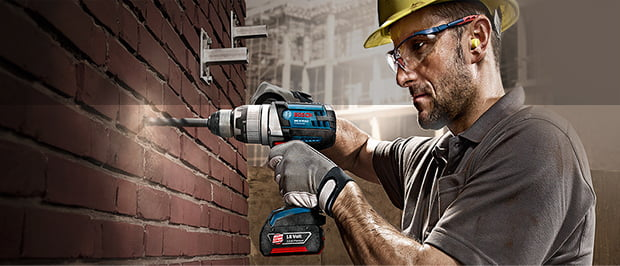
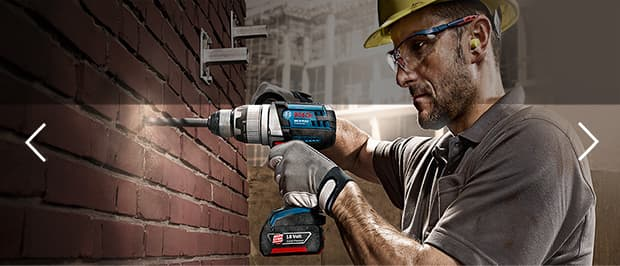
сделал 2 слайдера в Index

diff --git a/index.html b/index.html
@@ -113,28 +113,29 @@
             <img src="img/delivery_icon.svg" width="59" height="72" alt="тележка с товаром">
           </li>
           <!--Слайдер -->
-          <li class="products-services-item slider-item">
-            <div class="slider">
-              <div class="slider-hammer-drill">
-                <div class="slider-hammer-drill-text">
-                  <h3>Перфораторы</h3>
-                  <p>Настоящие мужские игрушки</p>
-                </div>
-                <a href="catalog.html">открыть каталог</a>
+          <li class="products-services-item slider-all">
+            <div class="slider slide-1">
+              <ul class="slider-list">
+                <li class="slider-item slide slide-current">
+                  <h3 class="slide-title">Перфораторы</h3>
+                  <p class="slide-slogan">Настоящие мужские игрушки</p>
+                  <a class="button button-slider" href="catalog.html">открыть каталог</a>
+                </li>
+                <li class="slider-item slide ">
+                  <h3 class="slide-title">Дрели</h3>
+                  <p class="slide-slogan">Соседям на радость</p>
+                  <a class="button button-slider" href="catalog.html">открыть каталог</a>
+                </li>
+              </ul>
+              <div class="slider-controls">
+                <button type="button" class="button-slider-controls button-next-slider"
+                  aria-label="Первый слайд"></button>
+                <button type="button" class="button-slider-controls button-back-slider"
+                  aria-label="Второй слайд"></button>
               </div>
-              <div class="slider-drill">
-                <div class="drill-text">
-                  <h3>Дрели</h3>
-                  <p>Соседям на радость</p>
-                </div>
-                <a class="button" href="catalog.html">открыть каталог</a>
-              </div>
-              <button type="button" class="button-next-slider">вперед</button>
-              <button type="button" class="button-back-slider">назад</button>
             </div>
           </li>
         </ul>
-
       </section>
 
       <section class="popular-tools">
@@ -253,11 +254,11 @@
           Мы стараемся изо всех сил, чтобы сделать ваши покупки приятными.</p>
         <div class="services-container">
           <ul class="services-list">
-            <li class="services-item services-item-delivery"><button type="button">Доставка</button></li>
+            <li class="services-item services-item-delivery services-item-current"><button type="button">Доставка</button></li>
             <li class="services-item services-item-guarantee"><button type="button">Гарантия</button></li>
             <li class="services-item services-item-credit"><button type="button">Кредит</button></li>
           </ul>
-          <div class="service-submenu service-delivery">
+          <div class="service-submenu service-delivery service-submenu-current">
             <h3>доставка</h3>
             <p class="service-delivery-text">Мы с удовольствием доставим ваш товар прямо
               к вашему подъезду совершенно бесплатно!</p>
@@ -266,7 +267,7 @@
           </div>
           <div class="service-submenu service-guarantee">
             <h3>гарантия</h3>
-            <p>Если купленный у нас товар поломается или заискрит, а также в случае пожара,
+            <p class="service-guarantee-text">Если купленный у нас товар поломается или заискрит, а также в случае пожара,
               спровоцированного его
               возгоранием, вы всегда можете быть уверены в нашей гарантии. Мы обменяем сгоревший товар на новый. Дом
               уж
@@ -274,7 +275,7 @@
           </div>
           <div class="service-submenu service-credit">
             <h3>кредит</h3>
-            <p>Залезть в долговую яму стало проще! Кредитные консультанты придут вам на
+            <p class="service-credit-text">Залезть в долговую яму стало проще! Кредитные консультанты придут вам на
               помощь.</p>
             <a class="button button-credit" href="blank.html">Отправить заявку</a>
           </div>

diff --git a/css/style.css b/css/style.css
@@ -472,16 +472,87 @@ html {
     background-color: var(--special-orange);
     grid-column: 3/4;
 }
+/**slider*/
 
-.slider-item {
+.slider-all {
    display: block;
    grid-column: 1/3;
    grid-row: 2/4;
 }
 
-.slider-hammer-drill-text h3 {
+.slider {
+    width: 620px;
+    min-height: 266px;
+    position: relative;
+    color: var(--basic-wight);
+}
+
+.slide-1 {
+    background-color: var(--special-grey);
+    background-image: url(../img/hammer_drill.jpg);
+}
+
+.slide-2 {
+    background-color: var(--special-grey);
+    background-image: url(../img/drill.jpg);
+}
+
+
+.slider-list {
+    list-style: none;
     padding: 0;
     margin: 0;
+}
+
+.slide {
+    display: none;
+}
+
+.slide-current {
+    display: block;
+}
+
+.slide-title {
+    font-size: 36px;
+    line-height: 36px;
+    text-transform: uppercase;
+    padding-top: 23px;
+    padding-left: 24px;
+    margin: 0;
+    margin-bottom: 5px;
+}
+
+.slider-item .slide-slogan {
+    font-size: 18px;
+    line-height: 24px;
+    padding-left: 24px;
+    margin-bottom: 113px;
+    font-weight: normal;
+}
+
+.slider-item .button-slider {
+    margin-left: 24px;
+    opacity: 1;
+    padding: 10px 46px;
+}
+
+.button-slider-controls {
+    padding: 0;
+    width: 10px;
+    height: 10px;
+    background-color: var(--basic-wight);
+    border: 1px solid var(--basic-wight);
+    border-radius: 50%;
+    position: absolute;
+    cursor: pointer;
+    left: 310px;
+    top: 220px;
+}
+
+.button-back-slider {
+    left: 325px;
+    background-color: var(--basic-red);
+    border: 2px solid var(--basic-wight);
 }
 
 /**breadcrumbs*/
@@ -1016,38 +1087,23 @@ html {
     background-color: var(--special-grey);
 }
 
-.services-item button:active {
+.services-item button:active,
+.services-item-current button {
     background-color: var(--basic-wight);
     color: var(--basic-grey);
+    outline: none;
+    border: none;
 }
 
 
 .service-submenu {
+    display: none;
     margin-left: 80px;
-    flex-grow: 1;
+    flex-grow: 1;    
 }
 
-.service-delivery-text {
-    position: relative;
-    width: 283px;
-}
-
-
-.service-delivery-text::before {
-    content: "";
-    background-image: url(../img/delivery.svg);
-    background-repeat: no-repeat;
-    background-position: 0 0;
-    width: 468px;
-    height: 261px;
-    position: absolute;
-    left: 150px;
-    top: -39px;
-}
-
-.service-delivery-slogan {
-    width: 200px;
-
+.service-submenu-current {
+    display: block;    
 }
 
 .service-submenu h3 {
@@ -1069,17 +1125,40 @@ html {
               
 }
 
-service-guarantee p {
+.service-delivery-text {
     position: relative;
+    width: 283px;
 }
 
-/*Отлючил гарантию и кредит*/
+.service-delivery-text::before {
+    content: "";
+    background-image: url(../img/delivery.svg);
+    background-repeat: no-repeat;
+    background-position: 0 0;
+    width: 468px;
+    height: 261px;
+    position: absolute;
+    left: 150px;
+    top: -39px;
+}
+
+
+.service-delivery-slogan {
+    width: 200px;
+}
+
+.service-guarantee-text {
+    position: relative;
+    width: 320px;
+}
+
+/*Отлючил гарантию и кредит
 .service-guarantee,
 .service-credit {
     display: none;
-}
+}*/
 
-.service-guarantee p::before {
+.service-guarantee-text::before {
     content: "";
     background-image: url(../img/guarantee.svg);
     background-repeat: no-repeat;
@@ -1087,10 +1166,17 @@ service-guarantee p {
     width: 468px;
     height: 261px;
     position: absolute;
-    right: 210px;
+    left: 232px;
+    top: -39px;
 }
 
-.service-credit p::before {
+.service-credit-text {
+    position: relative;
+    width: 280px;
+}
+
+
+.service-credit-text::before {
     content: "";
     background-image: url(../img/credit.svg);
     background-repeat: no-repeat;
@@ -1098,7 +1184,8 @@ service-guarantee p {
     width: 468px;
     height: 261px;
     position: absolute;
-    right: 210px;
+    left: 163px;
+    top: -39px;
 }
 
 .button-credit {
